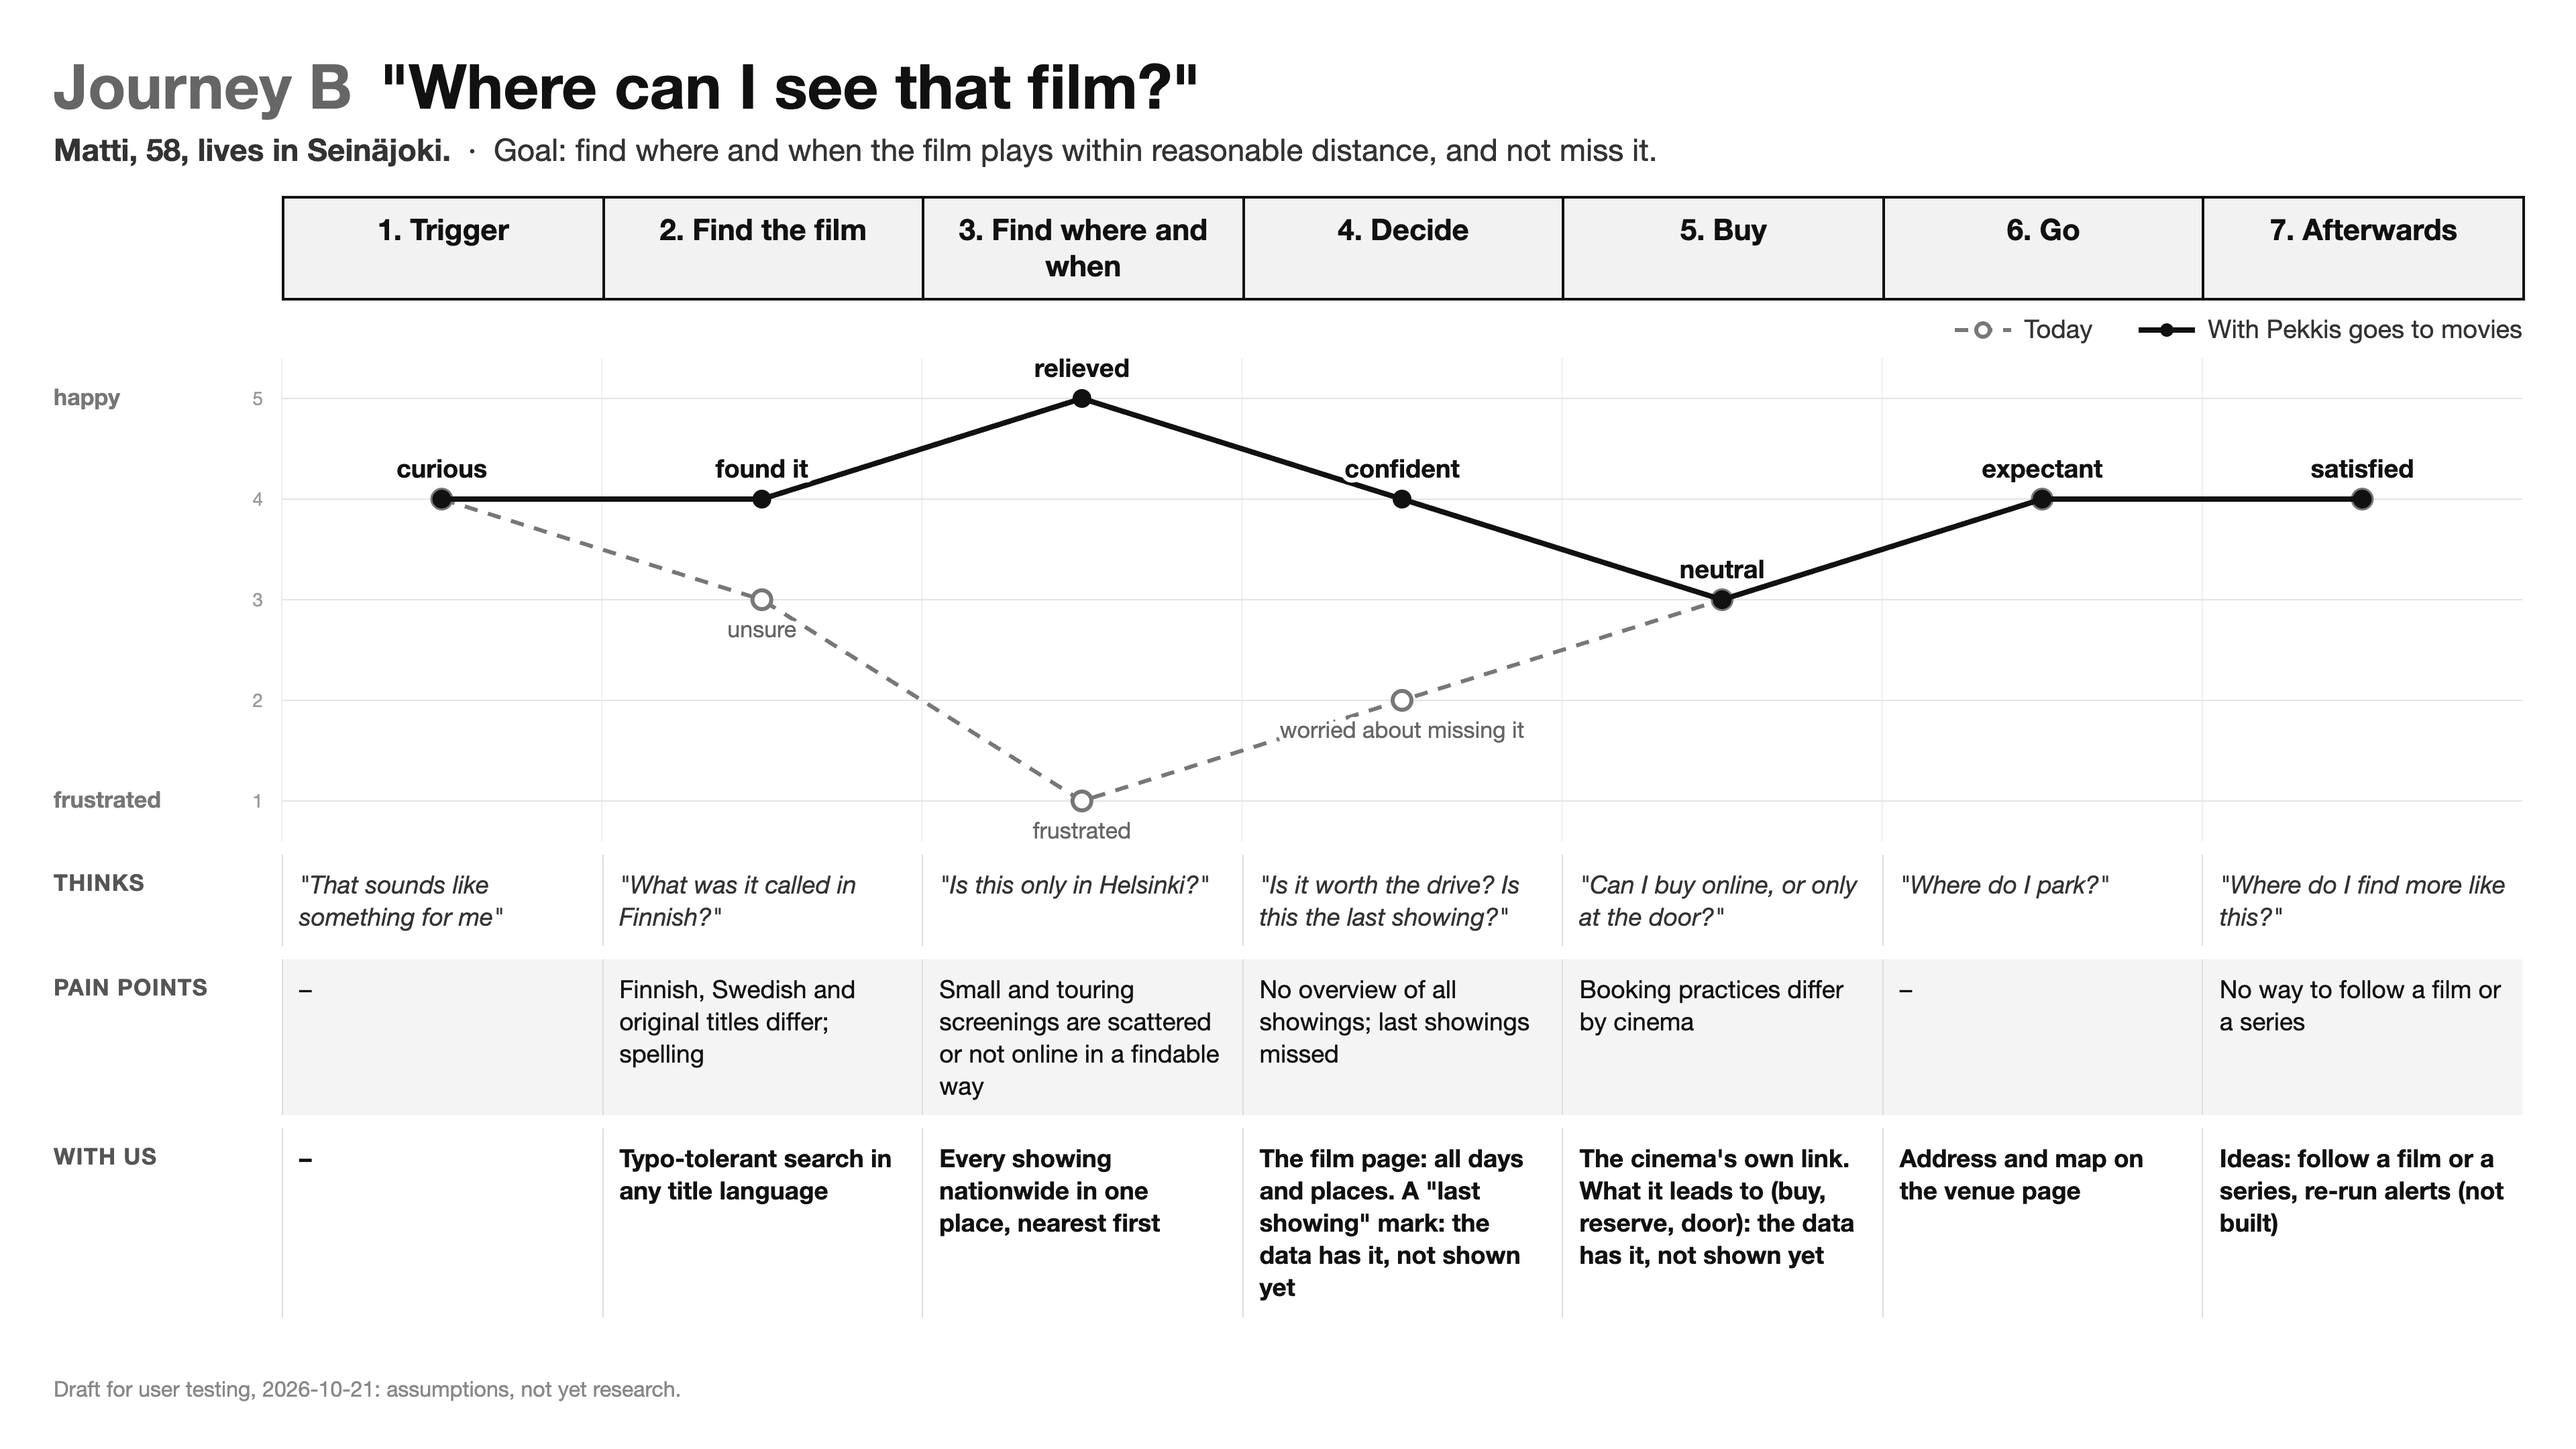
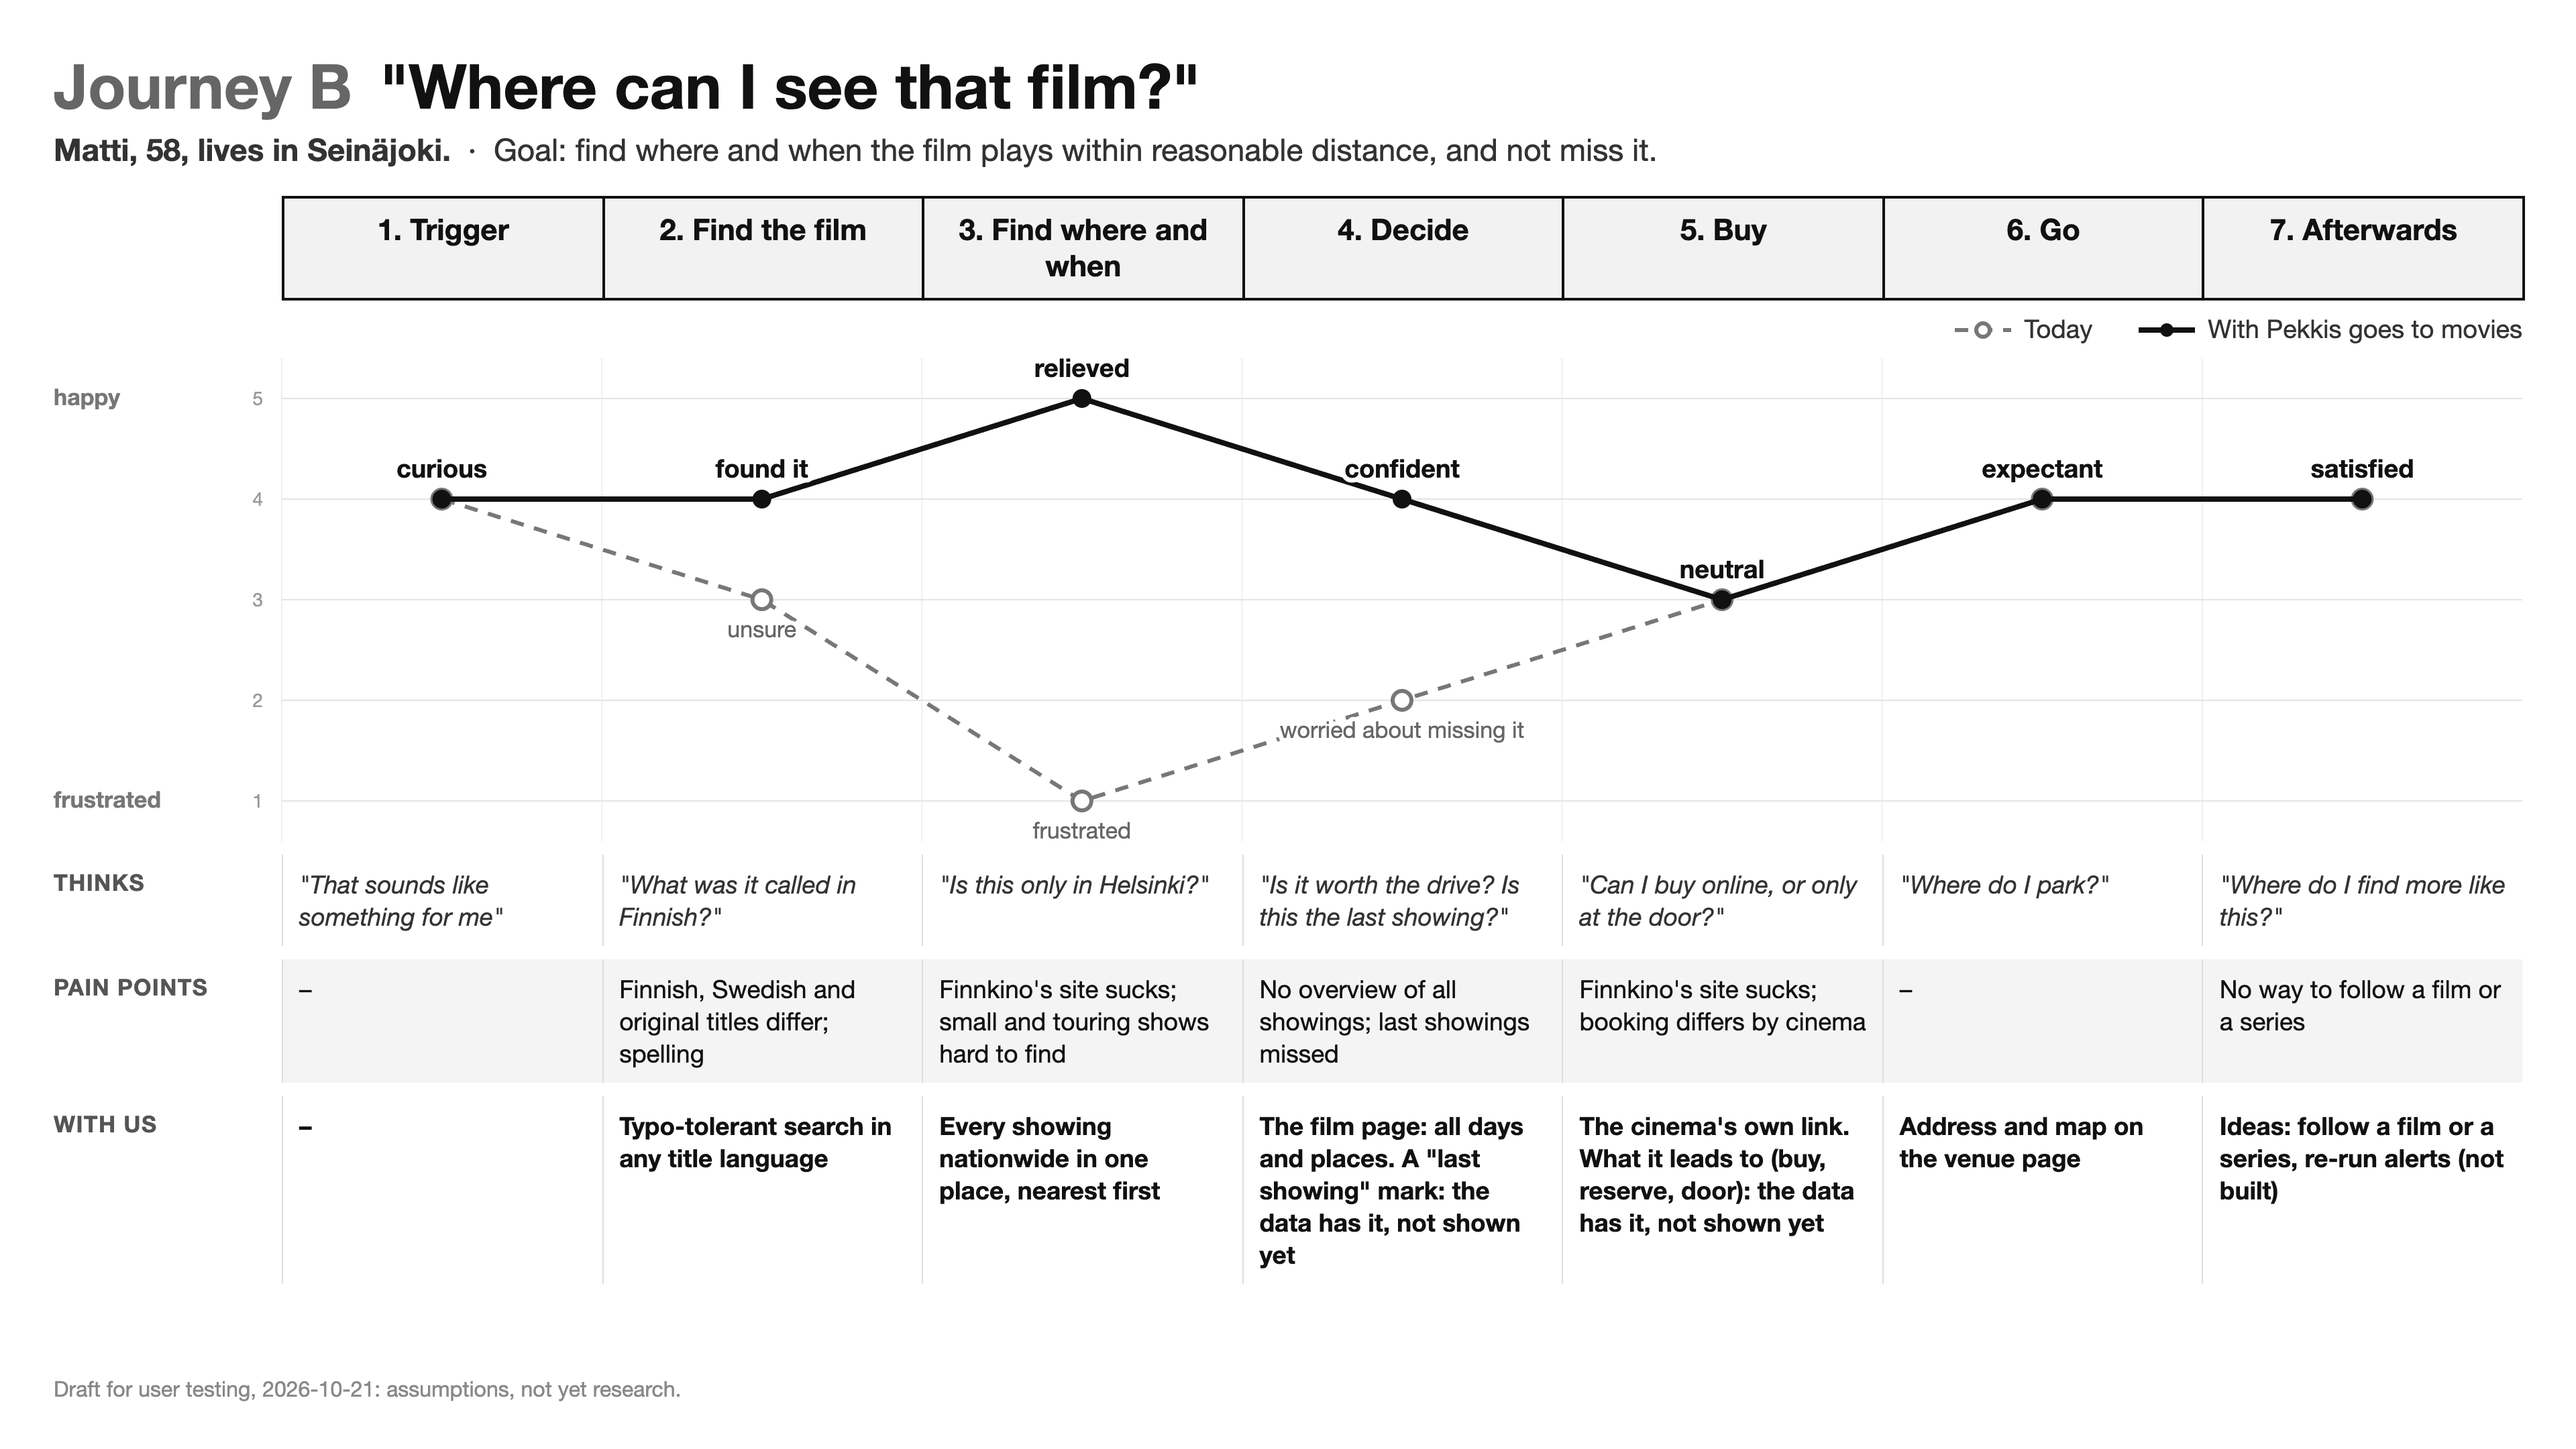
Journey maps: shorter pain points; Finnkino's site sucks (HS 2025)

diff --git a/docs/design/journey-map.md b/docs/design/journey-map.md
@@ -25,15 +25,15 @@ The diagrams are Mermaid `journey` charts. GitHub renders them in place. For sli
 
 **Goal:** a good show tonight, close by, with tickets bought, in a few minutes.
 
-| Stage               | 1. Trigger                           | 2. Find what's on                                                     | 3. Narrow down                                                                     | 4. Decide                                       | 5. Buy                                            | 6. Go                                               | 7. Afterwards                               |
-| ------------------- | ------------------------------------ | --------------------------------------------------------------------- | ---------------------------------------------------------------------------------- | ----------------------------------------------- | ------------------------------------------------- | --------------------------------------------------- | ------------------------------------------- |
-| **Does**            | Agrees to go; opens the phone        | Opens one cinema's site after another, or searches "leffat jyväskylä" | Compares times, films, languages; asks the friend                                  | Picks a show both can make                      | Follows the cinema's ticket link, pays            | Walks or takes the bus; arrives in time             | Talks about the film; maybe plans again     |
-| **Thinks**          | "What's on, anything good?"          | "Is there something besides Finnkino?"                                | "Is this dubbed? What time does it end?"                                           | "Is there a better option I missed?"            | "Hope there are seats left"                       | "Will we make it?"                                  | "We should do this more often"              |
-| **Touchpoints**     | Messaging app                        | Each cinema's own site, search engine, social media                   | Cinemas' sites, the chat with the friend                                           | –                                               | The cinema's ticket page                          | Map app, bus                                        | Social media, chat                          |
-| **Pain points**     | –                                    | Every cinema on its own site; small cinemas hard to find at all       | No single view; languages and subtitles unclear; times spread across many tabs     | Uncertainty: alternatives not seen together     | Every cinema's checkout is different              | Distance and travel time not shown                  | Nothing to come back to                     |
-| **Opportunities**   | Something to send the friend: a link | **All the cinemas in one search by place and day** (`/fi/haku`)       | **Filters by time of day, cinema and film; languages and subtitles on every show** | **Live status:** "starts in 30 min", "few left" | **A direct link to the right show's ticket page** | **Distance in the results; the map** (`/fi/kartta`) | Ideas: "coming soon", reminders (not built) |
-| **Feeling today**   | 4 · interested                       | 2 · frustrated                                                        | 2 · confused                                                                       | 3 · unsure                                      | 3 · neutral                                       | 3 · rushed                                          | 4 · satisfied                               |
-| **Feeling with us** | 4 · interested                       | 5 · relieved                                                          | 4 · in control                                                                     | 4 · confident                                   | 3 · neutral (still the cinema's checkout)         | 4 · on time                                         | 4 · satisfied                               |
+| Stage               | 1. Trigger                           | 2. Find what's on                                                      | 3. Narrow down                                                                     | 4. Decide                                       | 5. Buy                                                                                                        | 6. Go                                               | 7. Afterwards                               |
+| ------------------- | ------------------------------------ | ---------------------------------------------------------------------- | ---------------------------------------------------------------------------------- | ----------------------------------------------- | ------------------------------------------------------------------------------------------------------------- | --------------------------------------------------- | ------------------------------------------- |
+| **Does**            | Agrees to go; opens the phone        | Opens one cinema's site after another, or searches "leffat jyväskylä"  | Compares times, films, languages; asks the friend                                  | Picks a show both can make                      | Follows the cinema's ticket link, pays                                                                        | Walks or takes the bus; arrives in time             | Talks about the film; maybe plans again     |
+| **Thinks**          | "What's on, anything good?"          | "Is there something besides Finnkino?"                                 | "Is this dubbed? What time does it end?"                                           | "Is there a better option I missed?"            | "Hope there are seats left"                                                                                   | "Will we make it?"                                  | "We should do this more often"              |
+| **Touchpoints**     | Messaging app                        | Each cinema's own site, search engine, social media                    | Cinemas' sites, the chat with the friend                                           | –                                               | The cinema's ticket page                                                                                      | Map app, bus                                        | Social media, chat                          |
+| **Pain points**     | –                                    | One site per cinema; Finnkino's site sucks; small cinemas hard to find | No single view; languages and subtitles unclear; times spread across many tabs     | Uncertainty: alternatives not seen together     | Finnkino's site sucks ([HS 2025](https://www.hs.fi/kulttuuri/art-2000011591275.html)); every checkout differs | Distance and travel time not shown                  | Nothing to come back to                     |
+| **Opportunities**   | Something to send the friend: a link | **All the cinemas in one search by place and day** (`/fi/haku`)        | **Filters by time of day, cinema and film; languages and subtitles on every show** | **Live status:** "starts in 30 min", "few left" | **A direct link to the right show's ticket page**                                                             | **Distance in the results; the map** (`/fi/kartta`) | Ideas: "coming soon", reminders (not built) |
+| **Feeling today**   | 4 · interested                       | 2 · frustrated                                                         | 2 · confused                                                                       | 3 · unsure                                      | 3 · neutral                                                                                                   | 3 · rushed                                          | 4 · satisfied                               |
+| **Feeling with us** | 4 · interested                       | 5 · relieved                                                           | 4 · in control                                                                     | 4 · confident                                   | 3 · neutral (still the cinema's checkout)                                                                     | 4 · on time                                         | 4 · satisfied                               |
 
 ```mermaid
 ---
@@ -111,7 +111,7 @@ journey
 | **Does**            | Hears about the film; remembers its name, roughly | Searches the web with the name, maybe misspelt        | Checks the chains' sites, then guesses at small cinemas, film clubs, events | Picks a day and a place; maybe a longer drive                                                 | Follows the ticket link, or pays at the door                                                     | Drives to a town nearby               | Recommends it; looks for similar films                      |
 | **Thinks**          | "That sounds like something for me"               | "What was it called in Finnish?"                      | "Is this only in Helsinki?"                                                 | "Is it worth the drive? Is this the last showing?"                                            | "Can I buy online, or only at the door?"                                                         | "Where do I park?"                    | "Where do I find more like this?"                           |
 | **Touchpoints**     | Radio, newspaper, a friend                        | Search engine                                         | Chains' sites, small cinemas' own pages, Facebook, event calendars          | –                                                                                             | The cinema's ticket page, or the door                                                            | Car, map app                          | Friends, social media                                       |
-| **Pain points**     | –                                                 | Finnish, Swedish and original titles differ; spelling | Small and touring screenings are scattered or not online in a findable way  | No overview of all showings; last showings missed                                             | Booking practices differ by cinema                                                               | –                                     | No way to follow a film or a series                         |
+| **Pain points**     | –                                                 | Finnish, Swedish and original titles differ; spelling | Finnkino's site sucks; small and touring shows hard to find                 | No overview of all showings; last showings missed                                             | Finnkino's site sucks; booking differs by cinema                                                 | –                                     | No way to follow a film or a series                         |
 | **Opportunities**   | –                                                 | **Typo-tolerant search in any title language**        | **Every showing nationwide in one place, nearest first**                    | **The film page: all days and places.** A "last showing" mark: the data has it, not shown yet | **The cinema's own link.** What it leads to (buy, reserve, door): the data has it, not shown yet | **Address and map on the venue page** | Ideas: follow a film or a series, re-run alerts (not built) |
 | **Feeling today**   | 4 · curious                                       | 3 · unsure                                            | 1 · frustrated                                                              | 2 · worried about missing it                                                                  | 3 · neutral                                                                                      | 4 · expectant                         | 4 · satisfied                                               |
 | **Feeling with us** | 4 · curious                                       | 4 · found it                                          | 5 · relieved                                                                | 4 · confident                                                                                 | 3 · neutral                                                                                      | 4 · expectant                         | 4 · satisfied                                               |
